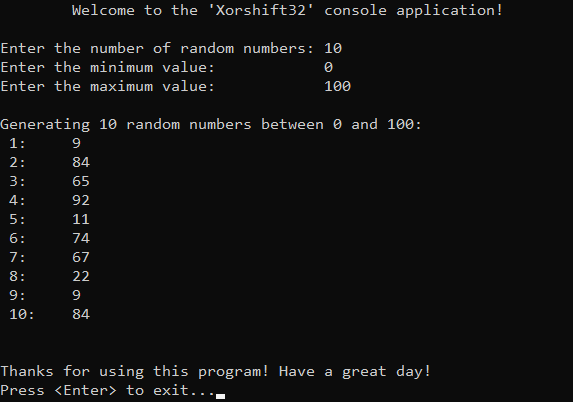
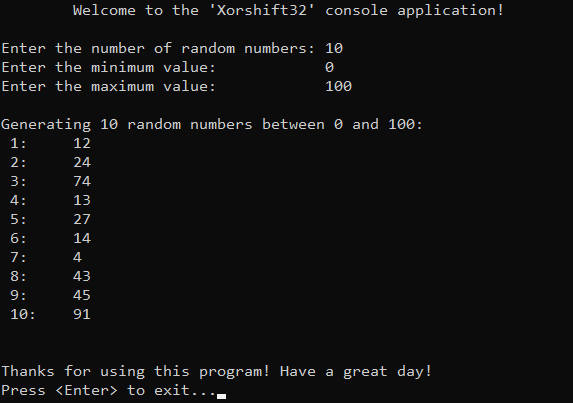
Fix 'Xorshift32': second shift should be to the right.

diff --git a/Algorithms/RNG/Xorshift32/Source/Xorshift32.cpp b/Algorithms/RNG/Xorshift32/Source/Xorshift32.cpp
@@ -16,7 +16,7 @@ Xorshift32::Xorshift32(uint32_t seed) {
 // Generates the next pseudorandom number using the Xorshift32 transformations
 uint32_t Xorshift32::generate() {
 	state ^= state << 13;
-	state ^= state << 17;
+	state ^= state >> 17;
 	state ^= state << 5;
 
 	return state;
